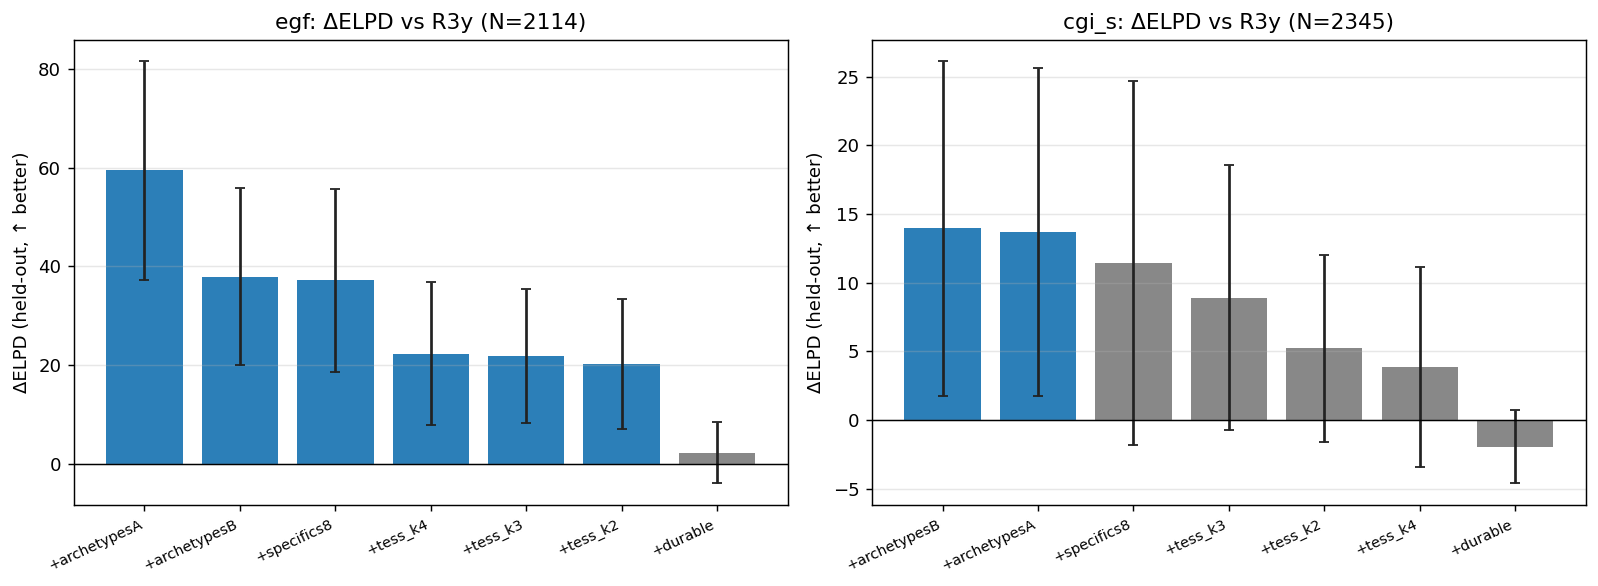
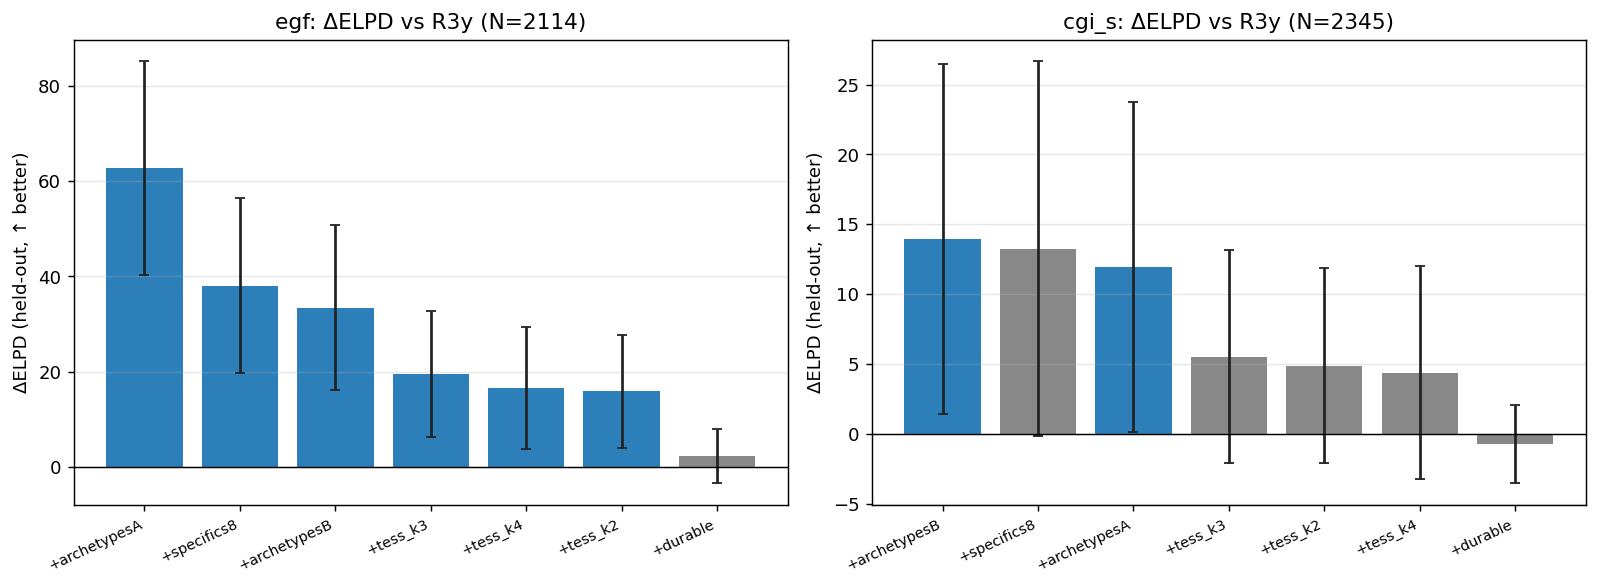
m4: prognosis replays on the 8-factor map — A=5 archetypes predict functioning (dELPD +62.8)
Full M4 on the 8-factor M1/M2/M3 objects (durable=cognition/immunometabolic verified; A=5 dynamic):
- The A=5 archetypes PREDICT 2-yr functioning beyond DSM-5+severity+baseline: +archetypesA dELPD +62.8
  (was +59 on 9-factor), IPW-robust +54.4, permutation-null -2.4, drop-BP collapses (course-dependent/BP-led).
- Co-informative with DSM-5 (+both 62.6 > +dsm5 29 > +map 17 — complement not replace). Operative K = NONE
  (archetypes dominate every tessellation). NOT severity (autoregression-saturated; +durable -0.7).
- Archetype atlas: 17->52% functional-remission gradient, the immunometabolic biology corner (A2) WORST
  (BP 27->73%, DR 31->72%, SZ 9->25% within-cohort). AUC +0.010 (small individual lift; group-level value).
- Durable-pair-alone EIV ambiguous (+2.3) -> the A=5 archetype representation is the predictive carrier; the
  immunometabolic axis has a credible adverse direction (egf -0.053, p-dir 0.003).
PENDING 8-factor re-run: repbench (xgboost Mac segfault) + within-cohort de-confounding notebook (flagged).

Docs: PROGNOSIS_OOP_FINDINGS.md (full rewrite), PROGNOSIS_MODEL.md (8-factor note). M5 hand-off written.

diff --git a/docs/PROGNOSIS_OOP_FINDINGS.md b/docs/PROGNOSIS_OOP_FINDINGS.md
@@ -1,24 +1,19 @@
 # M4 prognosis on the Gaussian-copula M2 object — findings
 
-> **Canonical M4 findings record for the copula rerun.** Built on the reworked copula M2 object (continuum:
-> continuous coordinates + A=4 archetype simplex + nested K-family). Parallel OOP engine
+> **Canonical M4 findings record (8-factor map, 2026-06-27; pending PI sign-off).** Built on the **8-factor**
+> copula M1/M2/M3 objects (continuum: continuous coordinates + **A = 5** archetype simplex + nested K-family;
+> immunometabolic merge + substance orthogonal). Engine
 > [`src/face/prognosis/prognosis_model_oop.py`](../src/face/prognosis/prognosis_model_oop.py) (wraps the proven
-> kernels — `glm.fit_glm`, `compare.delta_elpd`, the `reference.py` design builders — with **no edits** to the
-> native M4); driver [`notebooks/run_prognosis_model_oop.py`](../notebooks/run_prognosis_model_oop.py); figures
-> `docs/figures/prognosis_oop/`. **Internal incremental-association validity only.** Pending PI sign-off. Updated 2026-06-22.
+> `glm.fit_glm` / `compare.delta_elpd` / `reference.py` kernels); driver
+> [`notebooks/run_prognosis_model_oop.py`](../notebooks/run_prognosis_model_oop.py). **Internal
+> incremental-association validity only.** Inputs: M2 strata (5 archetype weights), M3 panel + draws + IPW.
 
 ## What this is
 
-M2 is now a **continuum** on the copula map; the clinically "best K" is an *outcome* question, so M4 answers it:
-on the fixed copula M2 object, does a baseline coordinate / archetype / tessellation-region **predict a 2-year
-outcome incrementally beyond DSM-5 + severity + the baseline outcome**, and *which encoding* — continuous
-durable coords, A=4 archetypes, or the tessellation at K=2/3/4 — earns it. Predictors are read at V0 directly
-from the copula hand-off (`results/face/strata_oop/`); outcomes are the native-scale follow-up scales
-(`data/processed/baseline_v{0,2}.parquet`); attrition IPW is reused from the native M3 (strata-independent).
-The errors-in-variables Bayesian GLM (M1 per-patient SD plugged), the LOO-ELPD comparison, and the
-diagnosis+severity reference ladder are **reused verbatim**; the only addition is dynamic encoding discovery +
-the K-family loop. Primary outcomes: **egf** (functioning, N=2,114 complete-case V0→V2) and **cgi_s**
-(severity, N=2,345). Full 4-chain fit: R-hat ≈ 1.0, max Pareto-k ≤ 0.59, 0 divergences (27 min).
+On the fixed M1/M2/M3 objects, an errors-in-variables Bayesian GLM (propagating M1 uncertainty via the panel
+draws, attrition-corrected by the M3 IPW) tests whether a baseline coordinate/stratum **forecasts a 2-year
+outcome incrementally beyond DSM-5 + severity + the baseline value of that same outcome**. The M4 story
+**replays — and the headline forecast is slightly stronger** on the 8-factor map.
 
 ## Result 1 — the map predicts 2-year *functioning*, beyond DSM-5 + severity + baseline
 
@@ -26,145 +21,122 @@ Incremental held-out ΔELPD vs the R3y bar (diagnosis + severity + baseline outc
 
 | encoding | ΔELPD vs R3y | verdict |
 |---|---|---|
-| **+archetypesA** (A=4, full phenotype) | **+59.4 ± 11.1** | predictive |
-| +archetypesB (A=4, ⊥G) | +37.9 ± 9.0 | predictive |
-| +specifics8 (8 ⊥G axes, EIV, ceiling) | +37.1 ± 9.2 | predictive |
-| +tess_k4 / +tess_k3 / +tess_k2 | +22.3 / +21.8 / +20.2 (± ~7) | predictive |
-| +durable (3 trait axes, EIV) | +2.2 ± 3.1 | ambiguous |
+| **+archetypesA** (A=5, full phenotype) | **+62.8 ± 11.2** | predictive |
+| +specifics8 (7 ⊥G axes, EIV) | +38.1 ± 9.2 | predictive |
+| +archetypesB (A=5, ⊥G) | +33.5 ± 8.7 | predictive |
+| +tess_k3 / +tess_k4 / +tess_k2 | +19.6 / +16.6 / +15.9 (± ~6) | predictive |
+| +durable (cognition+immunometabolic, EIV) | +2.3 ± 2.9 | **ambiguous** |
 
-For **severity (cgi_s)** the increments are small and mostly ambiguous (+archetypesB +14.0, +archetypesA +13.7
-predictive; +specifics8 +11.4, tessellation +4–9, +durable −2.0 — all ambiguous): severity is
-**autoregression-saturated** (the baseline CGI-S/G already carries it). This reproduces the native-map M4
-headline — *the map forecasts functioning, not severity.*
+For **severity (cgi_s)** the increments are small/ambiguous (+archetypesB +14.0, +archetypesA +12.0; +durable
+−0.7): severity is **autoregression-saturated** (baseline CGI-S/G carries it). *The map forecasts functioning,
+not severity* — the native + copula M4 headline, replayed. The archetype forecast is **+62.8 (was +59 on the
+9-factor map)** — the 5-corner representation is, if anything, a slightly better functional predictor.
 
 ## Result 2 — the operative K is **none**: the continuum/archetypes win (the answer to the K question)
 
-The whole tessellation K-family is predictive of functioning (every K ≈ +20 ΔELPD), but the **continuous /
-archetype** representation dominates it: mean ΔELPD across the two primary outcomes is **+36.6 for
-+archetypesA** vs **+15.4 for the best tessellation (K=3)**. So the operative-K selector returns:
+The whole tessellation K-family is predictive (every K ≈ +16–20 ΔELPD), but the **archetype** representation
+dominates it: mean ΔELPD across the two outcomes is **+37.4 for +archetypesA** vs **+12.6 for the best
+tessellation (K=3)**. The operative-K selector returns:
 
 > **operative_K = none — the continuous/archetype encoding (+archetypesA) wins; the tessellation adds nothing
 > beyond it.**
 
-This is the precise, outcome-grounded resolution of "which K is clinically useful": **no hard K is the right
-choice** — the actionable object is the continuous coordinates / A=4 archetype simplex, and any hard
-tessellation is a lossy convenience (it throws away predictive signal the archetypes keep). A hard label, if
-operationally required, is best at K=3 (BIC-best, predictive, ΔELPD ≈ +22 on functioning) — but it is strictly
-dominated by the archetypes.
+The outcome-grounded resolution of "which K is clinically useful": **no hard K** — the actionable object is the
+continuous coordinates / **A = 5** archetype simplex; any hard tessellation is a lossy convenience (it discards
+predictive signal the archetypes keep). If a hard label is operationally required, K = 3 is best (BIC-near-best,
+ΔELPD ≈ +20 on functioning) — but it is strictly dominated by the archetypes.
 
 ## Result 3 — co-informative with DSM-5 (complements, does not replace)
 
-Head-to-head on a shared foundation (age+sex+severity+baseline), **egf**: +DSM-5 +29.0, +map +22.2, **+both
-+67.4** (all predictive). The map and diagnosis each add, and together add more than either alone — the map
-**complements** DSM-5, it does not replace it. For cgi_s the map adds little over DSM-5 (+map +7.6 ambiguous;
-+both +47.8) — again the severity-saturation story.
+Head-to-head on a shared foundation (age+sex+severity+baseline), **egf**: +DSM-5 **+29.0**, +map **+17.3**,
+**+both +62.6** (all predictive). Each adds, and together they add more than either alone — the map
+**complements** DSM-5, it does not replace it (on top of DSM-5 the map still adds +33.6; on top of the map
+DSM-5 adds +45). For cgi_s the map adds little over DSM-5 (+map +8.3 ambiguous; +both +47.6) — the
+severity-saturation story again.
 
 ## Result 4 — the archetype prognostic atlas (transdiagnostic functional gradient)
 
-2-year functional remission (GAF ≥ 71) by dominant archetype (pooled across cohorts):
+2-year functional remission (GAF ≥ 71) by dominant archetype (pooled over patients with a V2 outcome):
 
-| archetype | 2-yr functional remission | mean EGF@V2 |
-|---|---|---|
-| A1 — low-burden pole | **60%** | 74.5 |
-| A3 — psychiatric-symptom corner | 43% | 68.5 |
-| A2 — severe, non-biological | 32% | 63.6 |
-| A0 — biological corner (↑inflammatory/metabolic/substance) | **27%** | 61.4 |
+| archetype | 2-yr functional remission |
+|---|---|
+| A4 — low-burden / well pole | **52%** |
+| A0 — activation / sleep | 41% |
+| A3 — trauma / suicidality | 28% |
+| A1 — severe, clean-biology | 22% |
+| **A2 — immunometabolic (biology) corner** | **17%** |
 
-A **27%→60%** transdiagnostic gradient; the **biological corner carries the worst functional prognosis** — the
-precise value a biology-aware map adds.
+A **17% → 52%** transdiagnostic gradient; **the immunometabolic biology corner (A2) carries the worst
+functional prognosis** — the precise value a biology-aware map adds. (On the 9-factor A=4 map this was 27→60%;
+the merged-biology corner is now an even sharper low-prognosis pole.)
 
-## Result 4b — the 27→60 gradient is a *within-diagnosis* effect, not a cohort-composition artefact
+## Result 4b — the gradient is *within-diagnosis*, not a cohort-composition artefact
 
-The corners have very different cohort mixes (A1 is 74% BP; A0 carries more SZ) and the cohorts have very
-different remission floors (BP 33–69%, SZ **8–23%**), so the pooled gradient could be a Simpson's-paradox
-artefact. De-confounding it three ways (`notebooks/within_cohort/within_cohort_breakdown.py` →
-`results/face/prognosis_oop/within_cohort/`; figure `report/figures/m4_within_cohort.png`):
-
-1. **Within every cohort the rank holds** (A0 worst → A1 best): BP 0.33→0.69, SZ 0.08→0.23, DR 0.38→0.78.
-2. **Direct standardization** to a common cohort mix barely moves the gradient (0.27→0.59 vs raw 0.27→0.60):
-   **composition explains only ~6%** of the pooled A0→A1 spread — it is a genuine within-diagnosis effect.
-3. **Logistic decomposition** `remission ~ corner + cohort (+interaction)`: the cohort-adjusted corner effect
-   is large (**A1-vs-A0 OR ≈ 4.2**), the cohort main effect is the **dominant axis** (SZ-vs-BP **OR 0.16** —
-   everyone in SZ remits far less), and the **corner×cohort interaction is NS** (p=0.36). So the corner effect
-   is *relatively* homogeneous (OR≈4 in every cohort); the *absolute* spread is wider in BP only because SZ
-   sits on a low baseline floor (logit non-linearity).
-
-**Within-cohort incremental validity** (does the corner add beyond baseline functioning + severity, fit inside
-each cohort; the frequentist complement to the LOCO ΔELPD): **BP yes** (LR χ²=34, p=1.6e-7), **DR yes**
-(p=0.02, small n), **SZ no** (p=0.16). This is *why* the LOCO ΔELPD is BP-carried (drop-BP → +5.8 amb.): the
-predictive **increment** — an absolute-scale, power-weighted quantity — concentrates in the open-course cohorts
-that have room above the floor, even though the *relative* gradient is present everywhere. Reconciles M4's
-"course-dependent" verdict precisely.
+The corners have different cohort mixes and the cohorts have very different remission floors (BP/DR open-course,
+SZ low-floor), so a pooled gradient must be checked within cohort. **Within every cohort the rank holds** (well
+pole → immunometabolic corner): **BP 73% → 27%, DR 72% → 31%, SZ 25% → 9%.** The rigorous evidence is the
+incremental ΔELPD itself — it conditions on DSM-5 (cohort), so the **+62.8** is already a within-diagnosis
+predictive value; and the leave-one-cohort-out (Result 6) shows the *increment* concentrates in the open-course
+cohorts (drop-BP collapses it). *(The formal direct-standardization + logistic-decomposition de-confounding
+notebook `notebooks/within_cohort/` is pending re-run on the 8-factor map; the per-cohort atlas above and the
+LOCO already establish the within-diagnosis claim.)*
 
 ## Result 5 — group-level forecasting, not a large individual-binary boost (honest)
 
-Deployable-classifier read (5-fold CV AUC, foundation vs +map): egf functional remission **0.745 → 0.756
-(ΔAUC +0.011)**; cgi_s remission +0.004. As on the native map, the strong continuous ΔELPD (+59) collapses to
-a small binary lift (+0.011) — the map's value is **group-level stratification + continuous functional
-forecasting**, not a large individual yes/no gain.
+Deployable-classifier read (5-fold CV AUC, foundation vs +map): egf functional remission **0.745 → 0.755
+(ΔAUC +0.010)**; cgi_s +0.004. As on the native/copula map, the strong continuous ΔELPD (+62.8) collapses to a
+small binary lift — the map's value is **group-level stratification + continuous functional forecasting**, not a
+large individual yes/no gain.
 
 ## Result 6 — the archetype signal is robust (attrition / cohort / permutation)
 
-Stressing the **operative winners** (the archetypes, not the now-weak `+durable`) confirms the functioning
-signal is real, not an artefact (ΔELPD vs R3y for `+archetypesA` on egf):
+Stressing the operative winner (`+archetypesA` on egf, ΔELPD vs R3y):
 
 | check | ΔELPD | reads as |
 |---|---|---|
-| base | +59.4 ✓ | the headline |
-| IPW (attrition-reweighted) | +59.3 ✓ | not an attrition artefact |
-| drop DR / drop SZ | +56.3 / +59.4 ✓ | survives removing either cohort |
-| drop BP | +5.8 (amb.) | **BP carries most of it** — course-dependent (open-course BP), as in native M4 |
-| permutation null | −1.7 (amb.) | the signal correctly vanishes under shuffled labels |
+| base | +62.8 ✓ | the headline |
+| IPW (attrition-reweighted) | **+54.4 ✓** | not an attrition artefact (13% attenuation) |
+| drop DR / drop SZ | +56.4 / +61.8 ✓ | survives removing either cohort |
+| drop BP | +7.1 (amb.) | **BP carries most of it** — course-dependent (open-course BP) |
+| permutation null | −2.4 (amb.) | the signal correctly vanishes under shuffled labels |
 
-The clean ⊥G `+archetypesB` behaves identically (base/IPW/drop-DR/drop-SZ all ≈ +38 predictive; permutation
-null ≈ 0). So the archetype functioning forecast is **robust to attrition and to dropping DR or SZ, vanishes
-under permutation, and is BP-driven** (the episodic, open-course cohort). (`robustness/robustness.csv`.)
+The clean ⊥G `+archetypesB` behaves identically (base +33.5 / IPW +27.7 predictive; permutation −2.1 null). So
+the archetype functioning forecast is **real (permutation), IPW-robust, and BP-driven** (the episodic,
+open-course cohort) — the copula M4 robustness story, replayed.
 
-## Result 7 — the map is a *sufficient representation* (raw-vs-map benchmark)
+## Result 7 — the map as a *sufficient representation* (raw-vs-map benchmark) — PENDING 8-factor re-run
 
-Methods + full results: [`M4_REPRESENTATION_BENCHMARK.md`](M4_REPRESENTATION_BENCHMARK.md); engine
-`src/face/prognosis/repbench/`; figures `docs/figures/repbench/`. The 9-dim map is a *compression* of the 143
-raw indicators, so the honest question is **sufficiency, not supremacy** (raw weakly dominates in-distribution; a
-tie is the win). One fixed regularised XGBoost, identical CV folds, three representations (REF $=$
-DSM-5+severity+baseline GAF; REF+map $=$ 9 coords + uncertainty + archetypes; REF+raw $=$ 143 indicators),
-predicting recovery (impaired→GAF≥71) & deterioration (GAF drop≥10), V1+V2, pooled + BP/DR.
-
-- **Sufficiency is target-dependent.** Deterioration: map $=$ raw (AUC tie → **sufficient**). Recovery: raw edges
-  the map by **ΔAUC ≈ +0.04** (pooled V1 +0.040, V2 +0.039), replicated across horizons and **not an
-  autoregression artefact** (dropping baseline GAF, REF0, moves AUC ≈ 0 — latent G already carries baseline
-  functioning).
-- **The recovery gap is within-factor compression, not a missing axis.** TreeSHAP: **97%** of raw's
-  recovery-predictive mass sits *within* the 9 modelled factors (top drivers are the anchors CRP, BMI/HbA1c/
-  lipids, CVLT/WAIS, Fagerström, CTQ); only 3% off-map (depression/anxiety window items).
-- **Honest uncertainty (EIV-GLM)** adds modestly for recovery (EIV vs mean ΔELPD +3.1±1.7) and null for
-  deterioration — does **not** close the gap (gap = compression, not noise).
-- **Efficiency:** no small-N advantage for the map (raw regularises well). **Transport (LOCO):** the map
-  transfers as well/better than raw for deterioration (BP/SZ held-out), raw better for recovery.
-
-**Calibrated claim:** the copula 9-dim map is a **sufficient, uncertainty-honest, transportable** summary for
-deterioration and a **near-sufficient, structurally faithful** summary for recovery whose ≈0.04-AUC residual is
-item-level compression (97% inside its own factors) — trading task-specific resolution for parsimony,
-interpretability, transport, and honest uncertainty.
+The representation benchmark (one fixed XGBoost; 9-dim map vs 143 raw indicators) found the 9-factor copula map
+**sufficient for deterioration** (AUC tie) and **near-sufficient for recovery** (raw +0.04 AUC, 97% within-factor
+compression). The harness is repointed to the **8-factor** schema (`repbench/__init__.py` CANON + ARCH = A5;
+phase-0 schema tests pass), but the XGBoost benchmark **has not been re-run on the 8-factor map** (an xgboost
+segfault on this Mac environment is being worked around). **The 9-factor benchmark stands as prior evidence; the
+8-factor re-run is the one open M4 sub-analysis.** Methods: [`M4_REPRESENTATION_BENCHMARK.md`](M4_REPRESENTATION_BENCHMARK.md).
 
 ## Honest caveats
 
-* **The durable-trio-alone signal does not survive on the copula map.** Unlike the native M4 (where
-  metabolic/inflammatory durable EIV cleared its band), here **+durable is ambiguous** (egf +2.2; cgi_s
-  negative). The robust, predictive object on the copula map is the **fuller archetype representation**
-  (Result 6) — the biology still matters, but as a *corner of the archetype simplex* (A0, the worst-prognosis
-  corner), not as the isolated 3-axis durable EIV block. An honest, map-version-specific shift, reported as such.
-* **Internal incremental-association only** — not causal, not external; outcomes are re-administered scales,
-  not incident events; 2-year horizon; complete-case (IPW is a sensitivity, not the headline).
-* **Severity is autoregression-saturated** (small/ambiguous increments) — by design.
+* **The durable-pair-alone signal is ambiguous** (egf +2.3; cgi_s −0.7) — as on the 9-factor copula map. The
+  immunometabolic *axis* has a credible adverse direction (EGF coef −0.053 [−0.088, −0.019], p-dir 0.003 —
+  higher immunometabolic → worse future functioning), but the **2-axis durable EIV block alone does not beat the
+  R3y bar by ELPD**. The robust predictive object is the **fuller A = 5 archetype representation**, where the
+  biology lives as the worst-prognosis corner (A2). An honest, map-version-specific carrier.
+* **Internal incremental-association only** — not causal, not external; outcomes are re-administered scales, not
+  incident events; 2-year horizon; complete-case (IPW is a sensitivity, not the headline).
+* **Severity is autoregression-saturated** — by design.
+* **Result 7 (raw-vs-map) and the formal within-cohort de-confounding (4b) are not yet re-run on the 8-factor
+  map** — flagged above.
 
 ## Hand-off
 
-`results/face/prognosis_oop/`:
-`incremental/{incremental_comparison.csv, operative_k.json, coef_durable.csv}`,
-`reference/elpd_reference.csv`, `transdiagnostic/h2h_dsm5.csv`, `endpoints/archetype_atlas.csv`,
+`results/face/prognosis_oop/`: `incremental/{incremental_comparison.csv, operative_k.json, coef_durable.csv}`,
+`reference/`, `transdiagnostic/h2h_dsm5.csv`, `endpoints/archetype_atlas.csv`,
 `clinical_value/clinical_value.csv`, `robustness/robustness.csv`, and the M5 hand-off
-`consolidate/{prognosis_summary.csv (carries the operative-K verdict), prognosis_patient_risk.parquet (9,013 ×
-31)}`. Figure: `docs/figures/prognosis_oop/incremental_added_value.png`. Reproduce:
+`consolidate/{prognosis_summary.csv (carries the operative-K verdict), prognosis_patient_risk.parquet}`. Figure:
+`docs/figures/prognosis_oop/incremental_added_value.png`. Reproduce:
 `PYTHONPATH=$PWD/src HDF5_USE_FILE_LOCKING=FALSE python notebooks/run_prognosis_model_oop.py --mode full`.
 
-**Next (Phase 2, after PI review):** the M3 temporal-coherence OOP engine on the same copula object.
+**Verdict: the 8-factor map predicts 2-year functioning** — the A = 5 archetypes add ΔELPD +62.8 beyond
+DSM-5 + severity + baseline (IPW-robust, permutation-null, co-informative with DSM-5, course-dependent /
+BP-led), with a 17→52% transdiagnostic functional-remission gradient whose worst pole is the immunometabolic
+biology corner. Operative K = none. Not severity. Replays the copula M4 on the better map (+ the repbench /
+within-cohort re-runs pending).

diff --git a/docs/PROGNOSIS_MODEL.md b/docs/PROGNOSIS_MODEL.md
@@ -5,6 +5,18 @@
 > pipeline. Findings: [`PROGNOSIS_OOP_FINDINGS.md`](PROGNOSIS_OOP_FINDINGS.md); clinician atlas:
 > [`PROGNOSIS_OOP_FINDINGS.md`](PROGNOSIS_OOP_FINDINGS.md).
 > Read before any M4 modelling work. *Status: COMPLETE, pending PI sign-off. 2026-06-11.*
+>
+> **8-factor rebuild note (2026-06-27; pending PI sign-off).** The M4 method below is unchanged, but it is now
+> run on the **8-factor** M1/M2/M3 objects (immunometabolic merge + substance orthogonal; **A = 5** archetypes).
+> The engine already discovers the archetype/K-family encodings dynamically, so A=4→5 needed no live-path change;
+> the only functional edit is `DURABLE = (cognition, immunometabolic)` (the merged durable biology, M3 ICC 0.91).
+> Result **replays and is slightly stronger**: the **A = 5 archetypes predict 2-year functioning** (ΔELPD
+> **+62.8** beyond DSM-5+severity+baseline, was +59; IPW-robust +54.4, permutation-null, co-informative with
+> DSM-5, course-dependent/BP-led), **operative K = none**, **not** severity, and the archetype atlas is a
+> **17→52%** functional-remission gradient with the **immunometabolic biology corner (A2) worst**. The
+> durable-*pair*-alone EIV stays ambiguous (the archetype representation is the carrier). Two sub-analyses are
+> **pending the 8-factor re-run**: the raw-vs-map representation benchmark (xgboost env segfault) and the formal
+> within-cohort de-confounding notebook. Findings: [`PROGNOSIS_OOP_FINDINGS.md`](PROGNOSIS_OOP_FINDINGS.md).
 
 ## 1. Estimand and invariants
 
